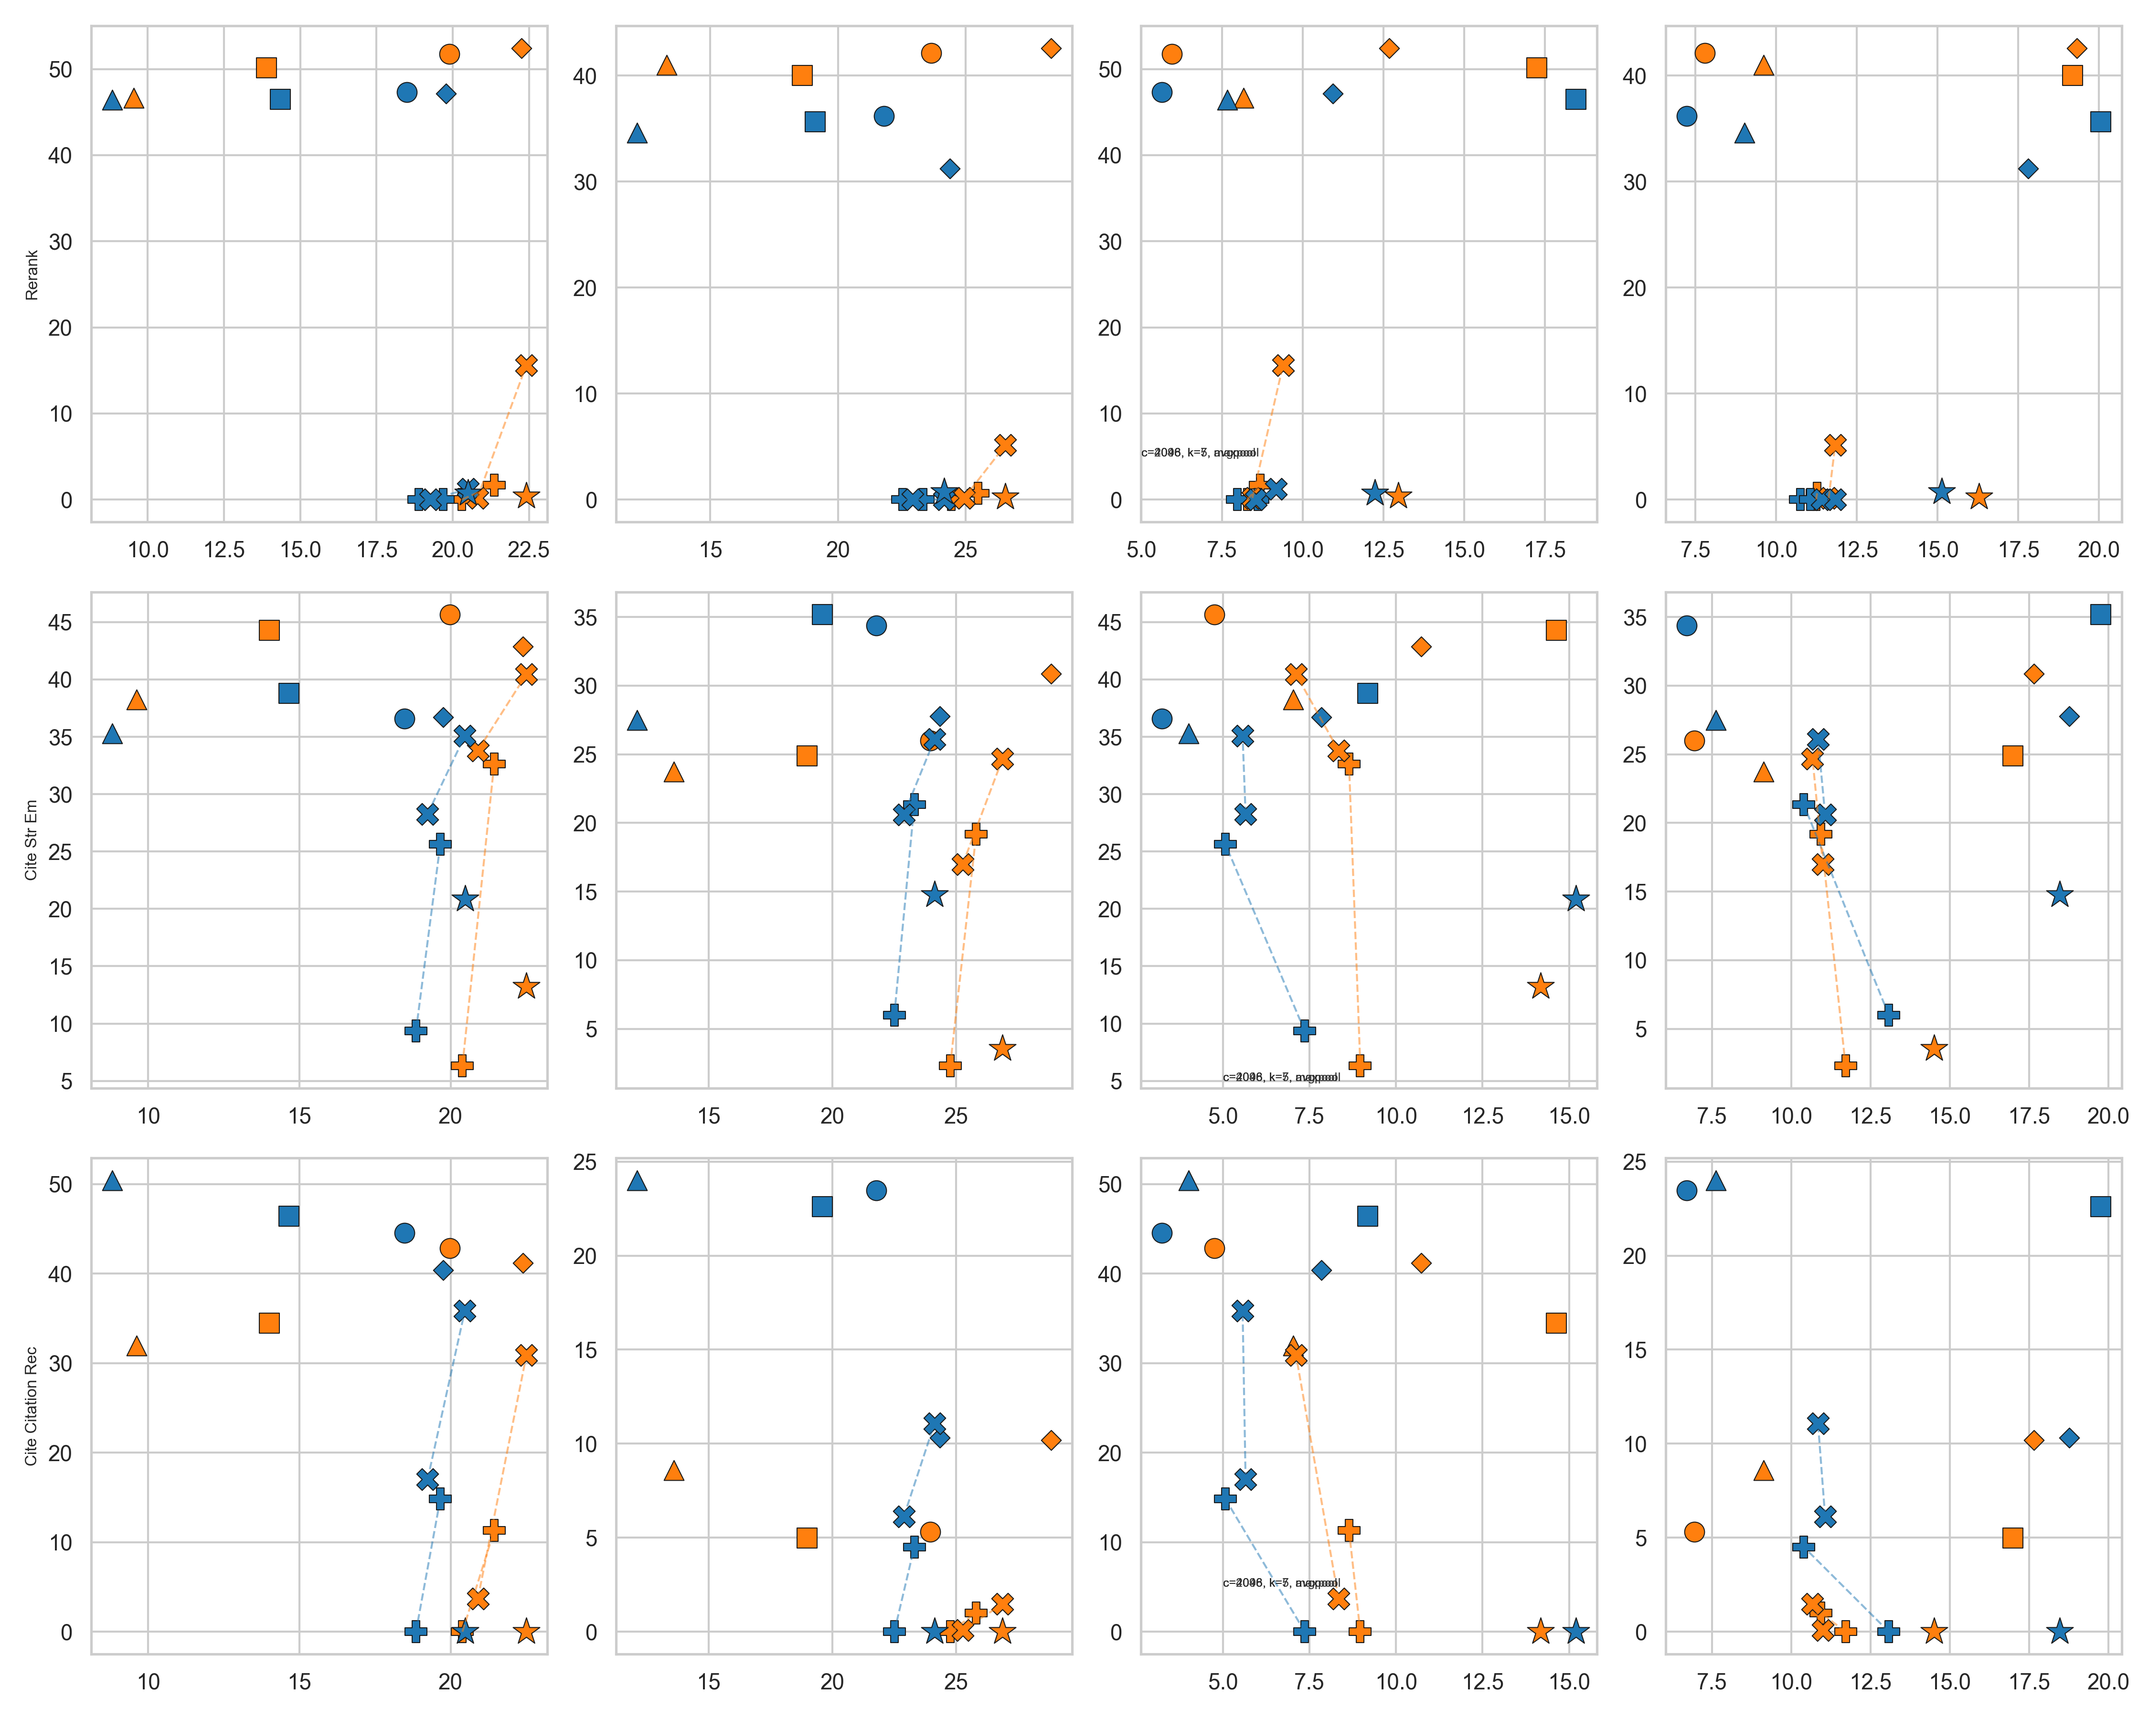
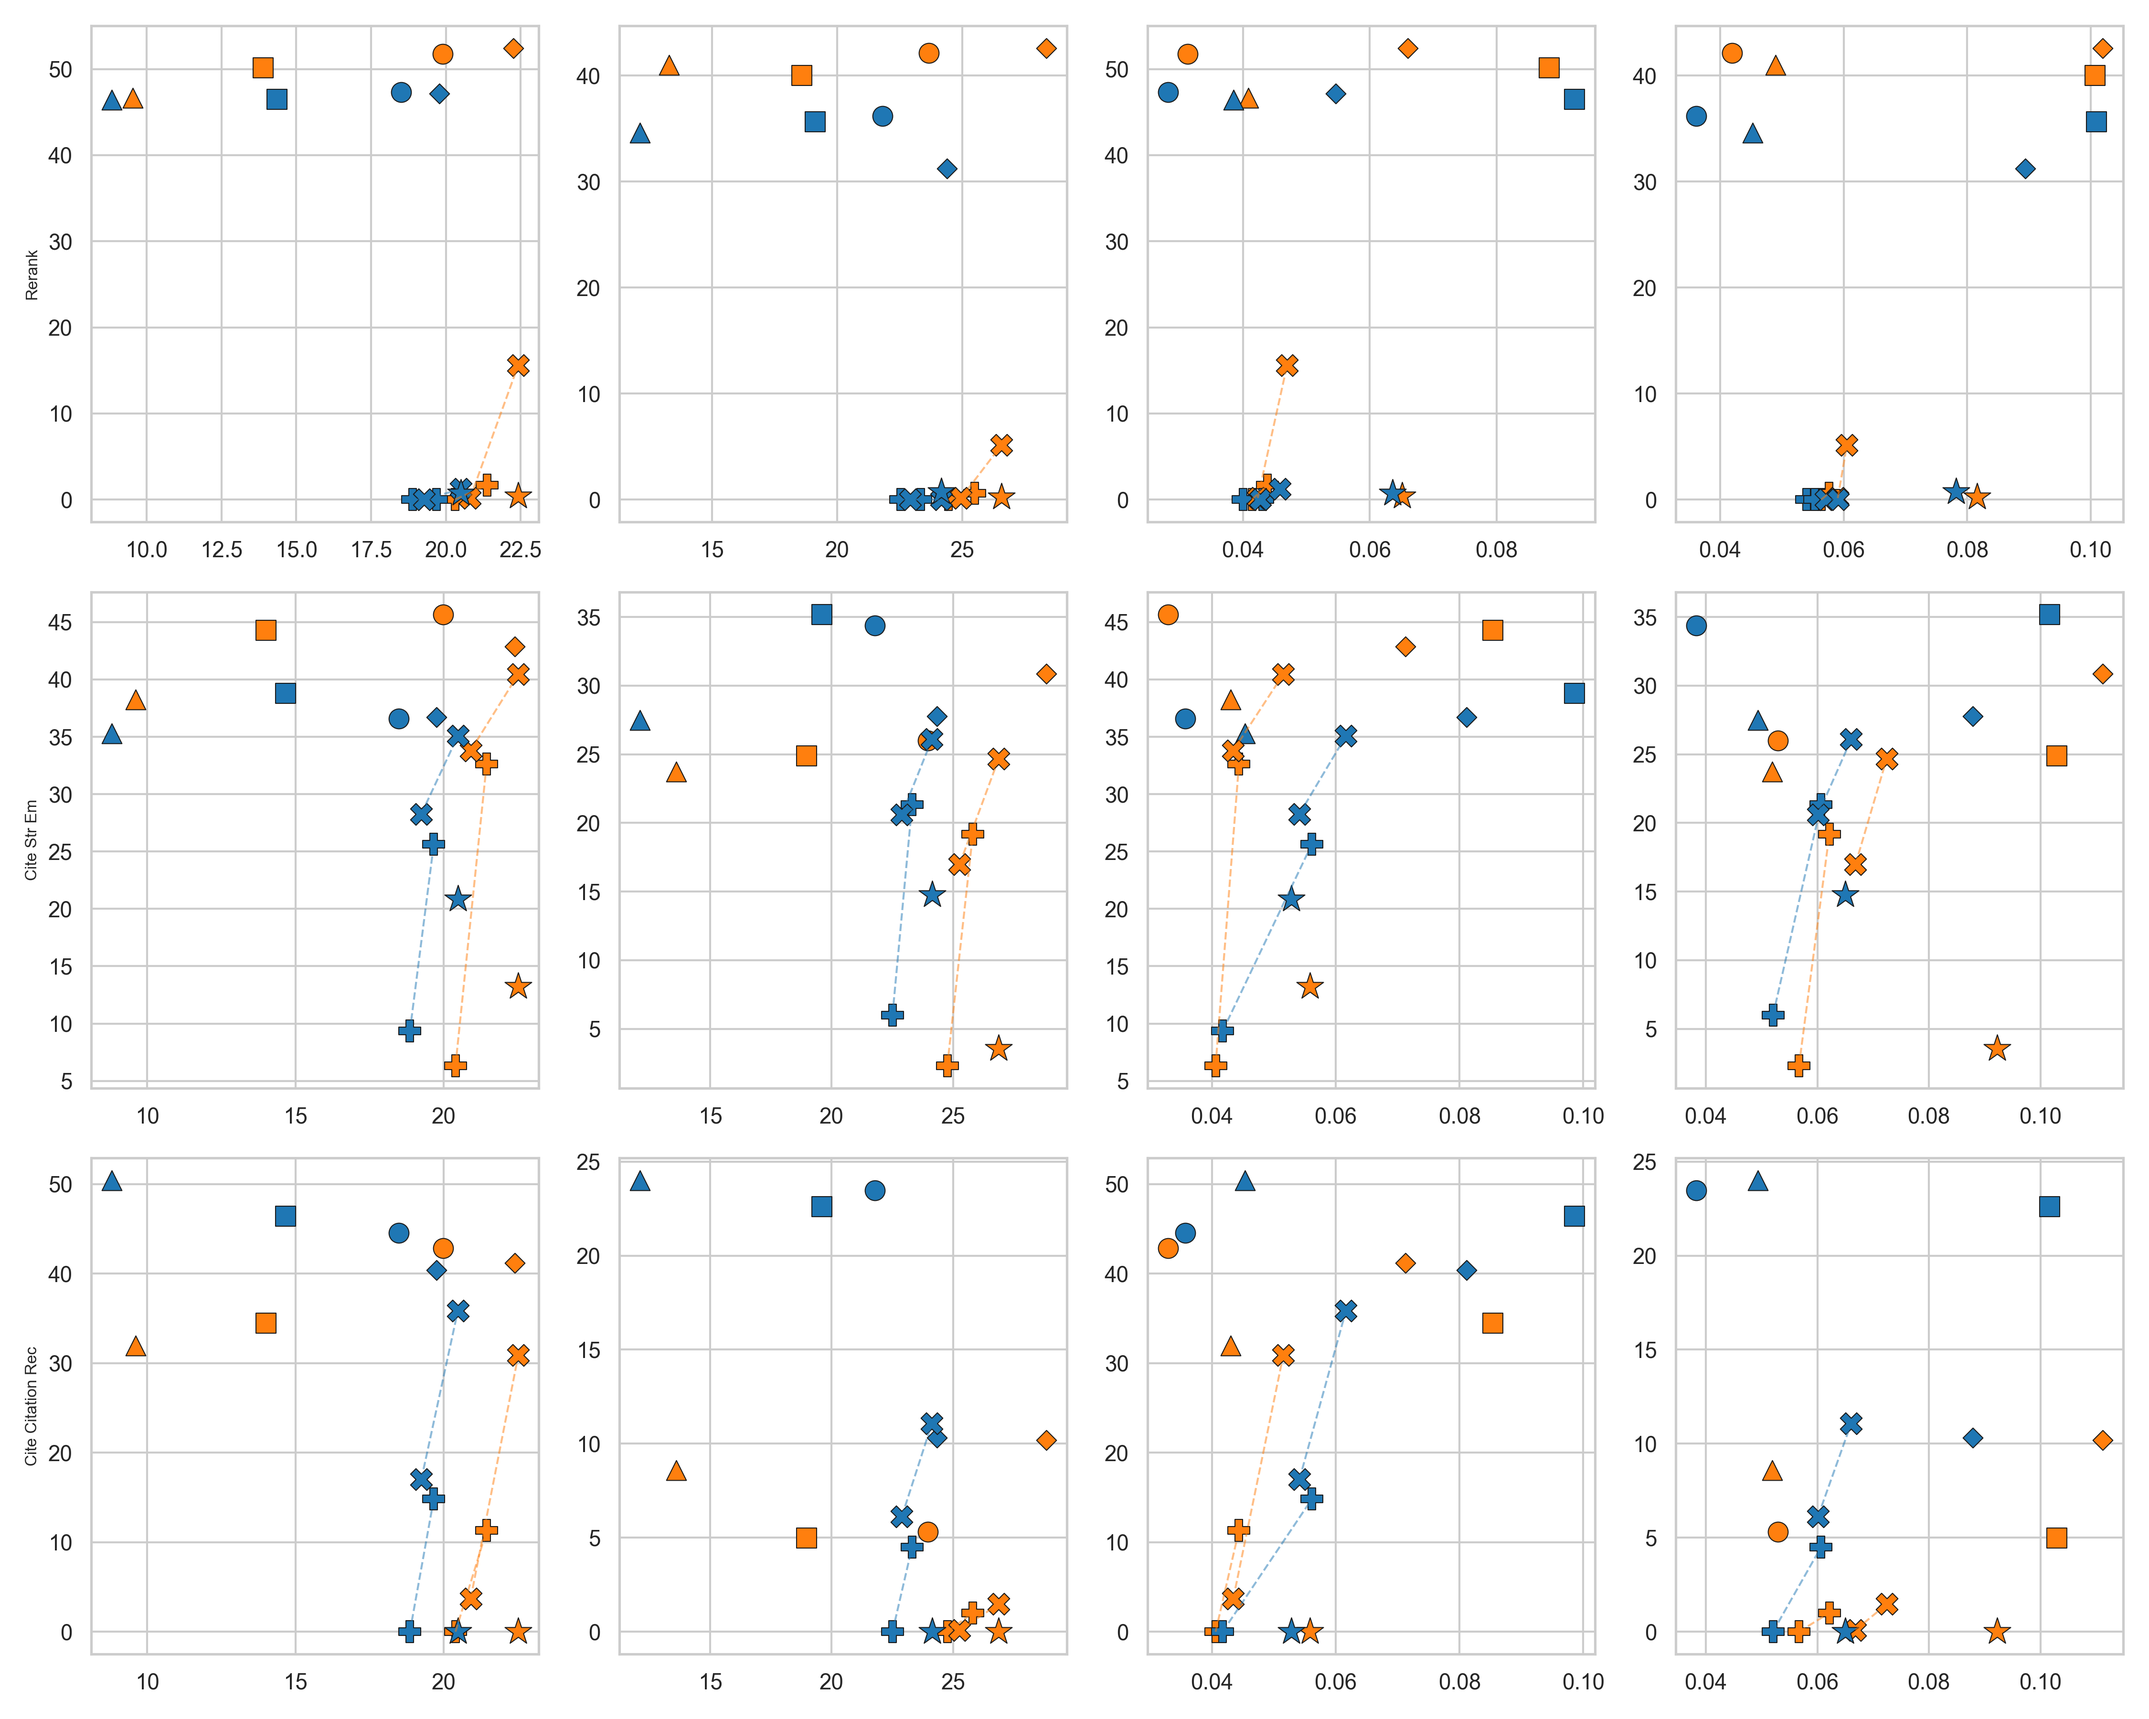
adjusted throughput calculations from samples/s to tokens/s

diff --git a/scripts/collect_results_new_archive.py b/scripts/collect_results_new_archive.py
@@ -163,10 +163,8 @@ for technique in tqdm(os.listdir(base_dir), desc="Processing techniques"):
                             if "memory_usage" in data:
                                 # Convert memory to GB by dividing by 10^9
                                 memory_data[row_key][task] = float(data["memory_usage"]) / 1e9
-                            if "throughput" in data and "averaged_metrics" in data and "output_len" in data["averaged_metrics"]:
-                                samples_per_second = float(data["throughput"])
-                                avg_tokens_per_sample = float(data["averaged_metrics"]["output_len"])
-                                throughput_data[row_key][task] = samples_per_second * avg_tokens_per_sample
+                            if "throughput" in data:
+                                throughput_data[row_key][task] = float(data["throughput"])
                     elif file.endswith(".json.score"):
                         with open(filepath) as f:
                             score_data = json.load(f)
